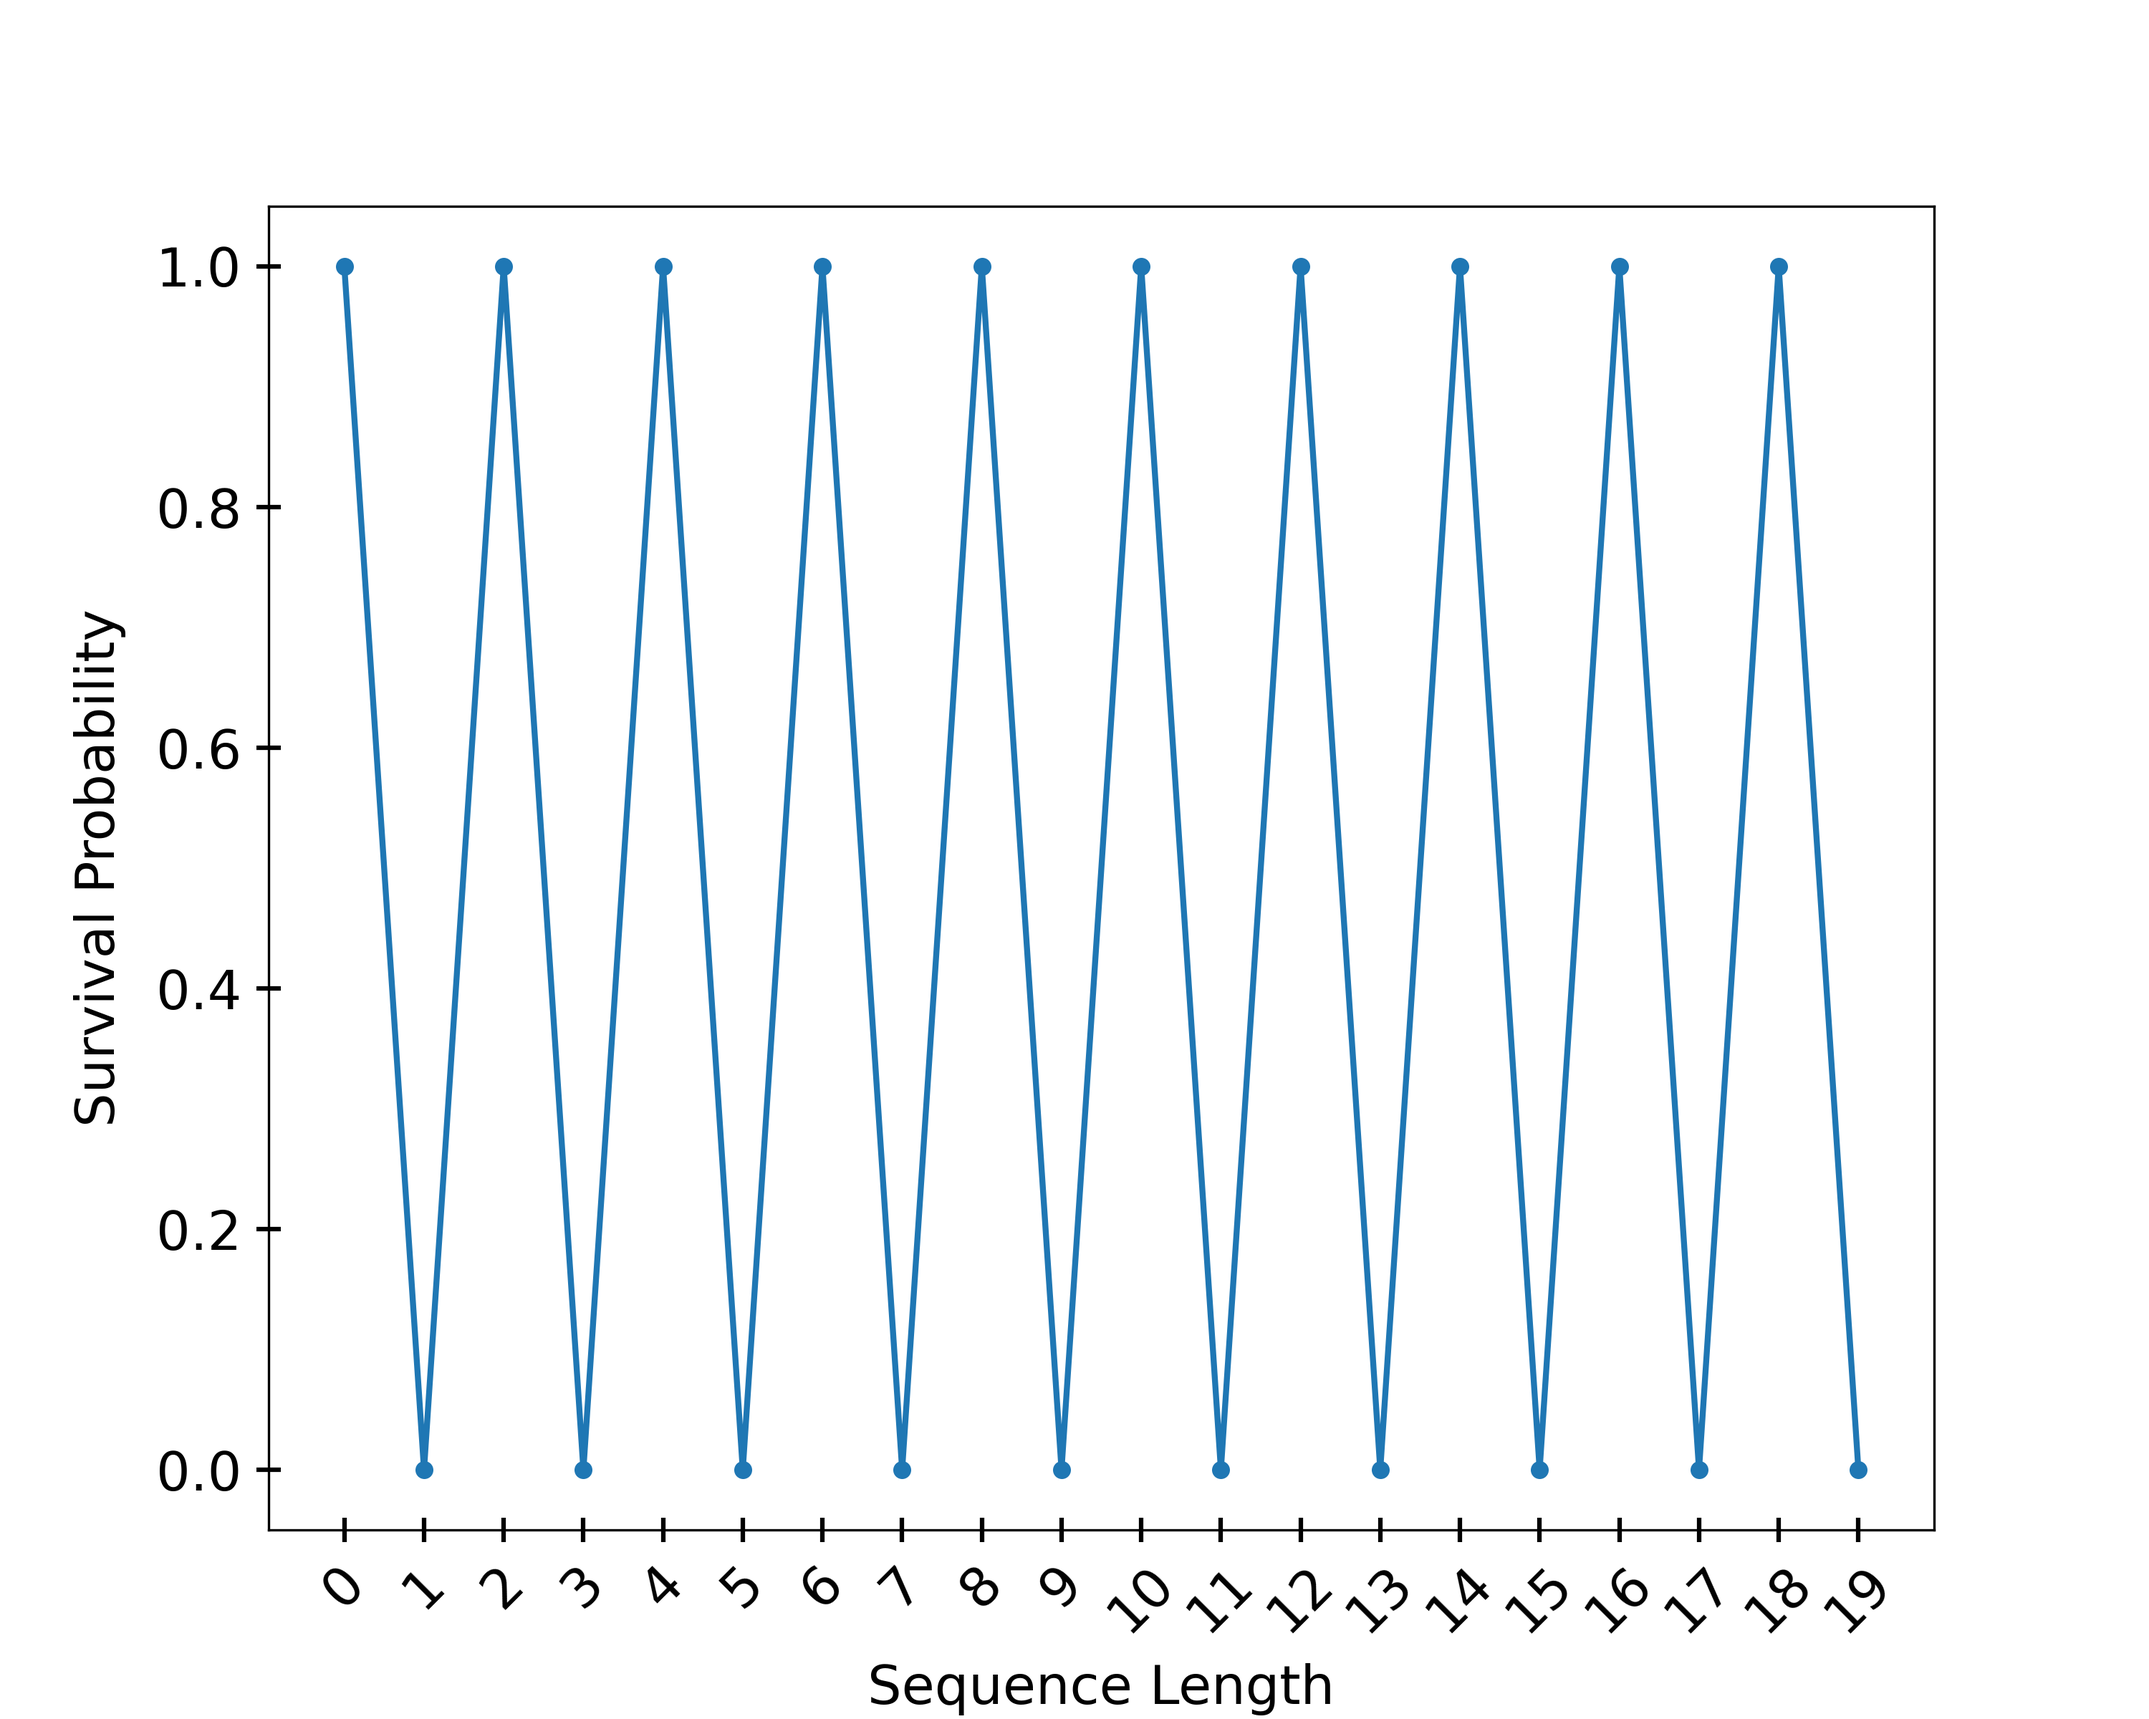
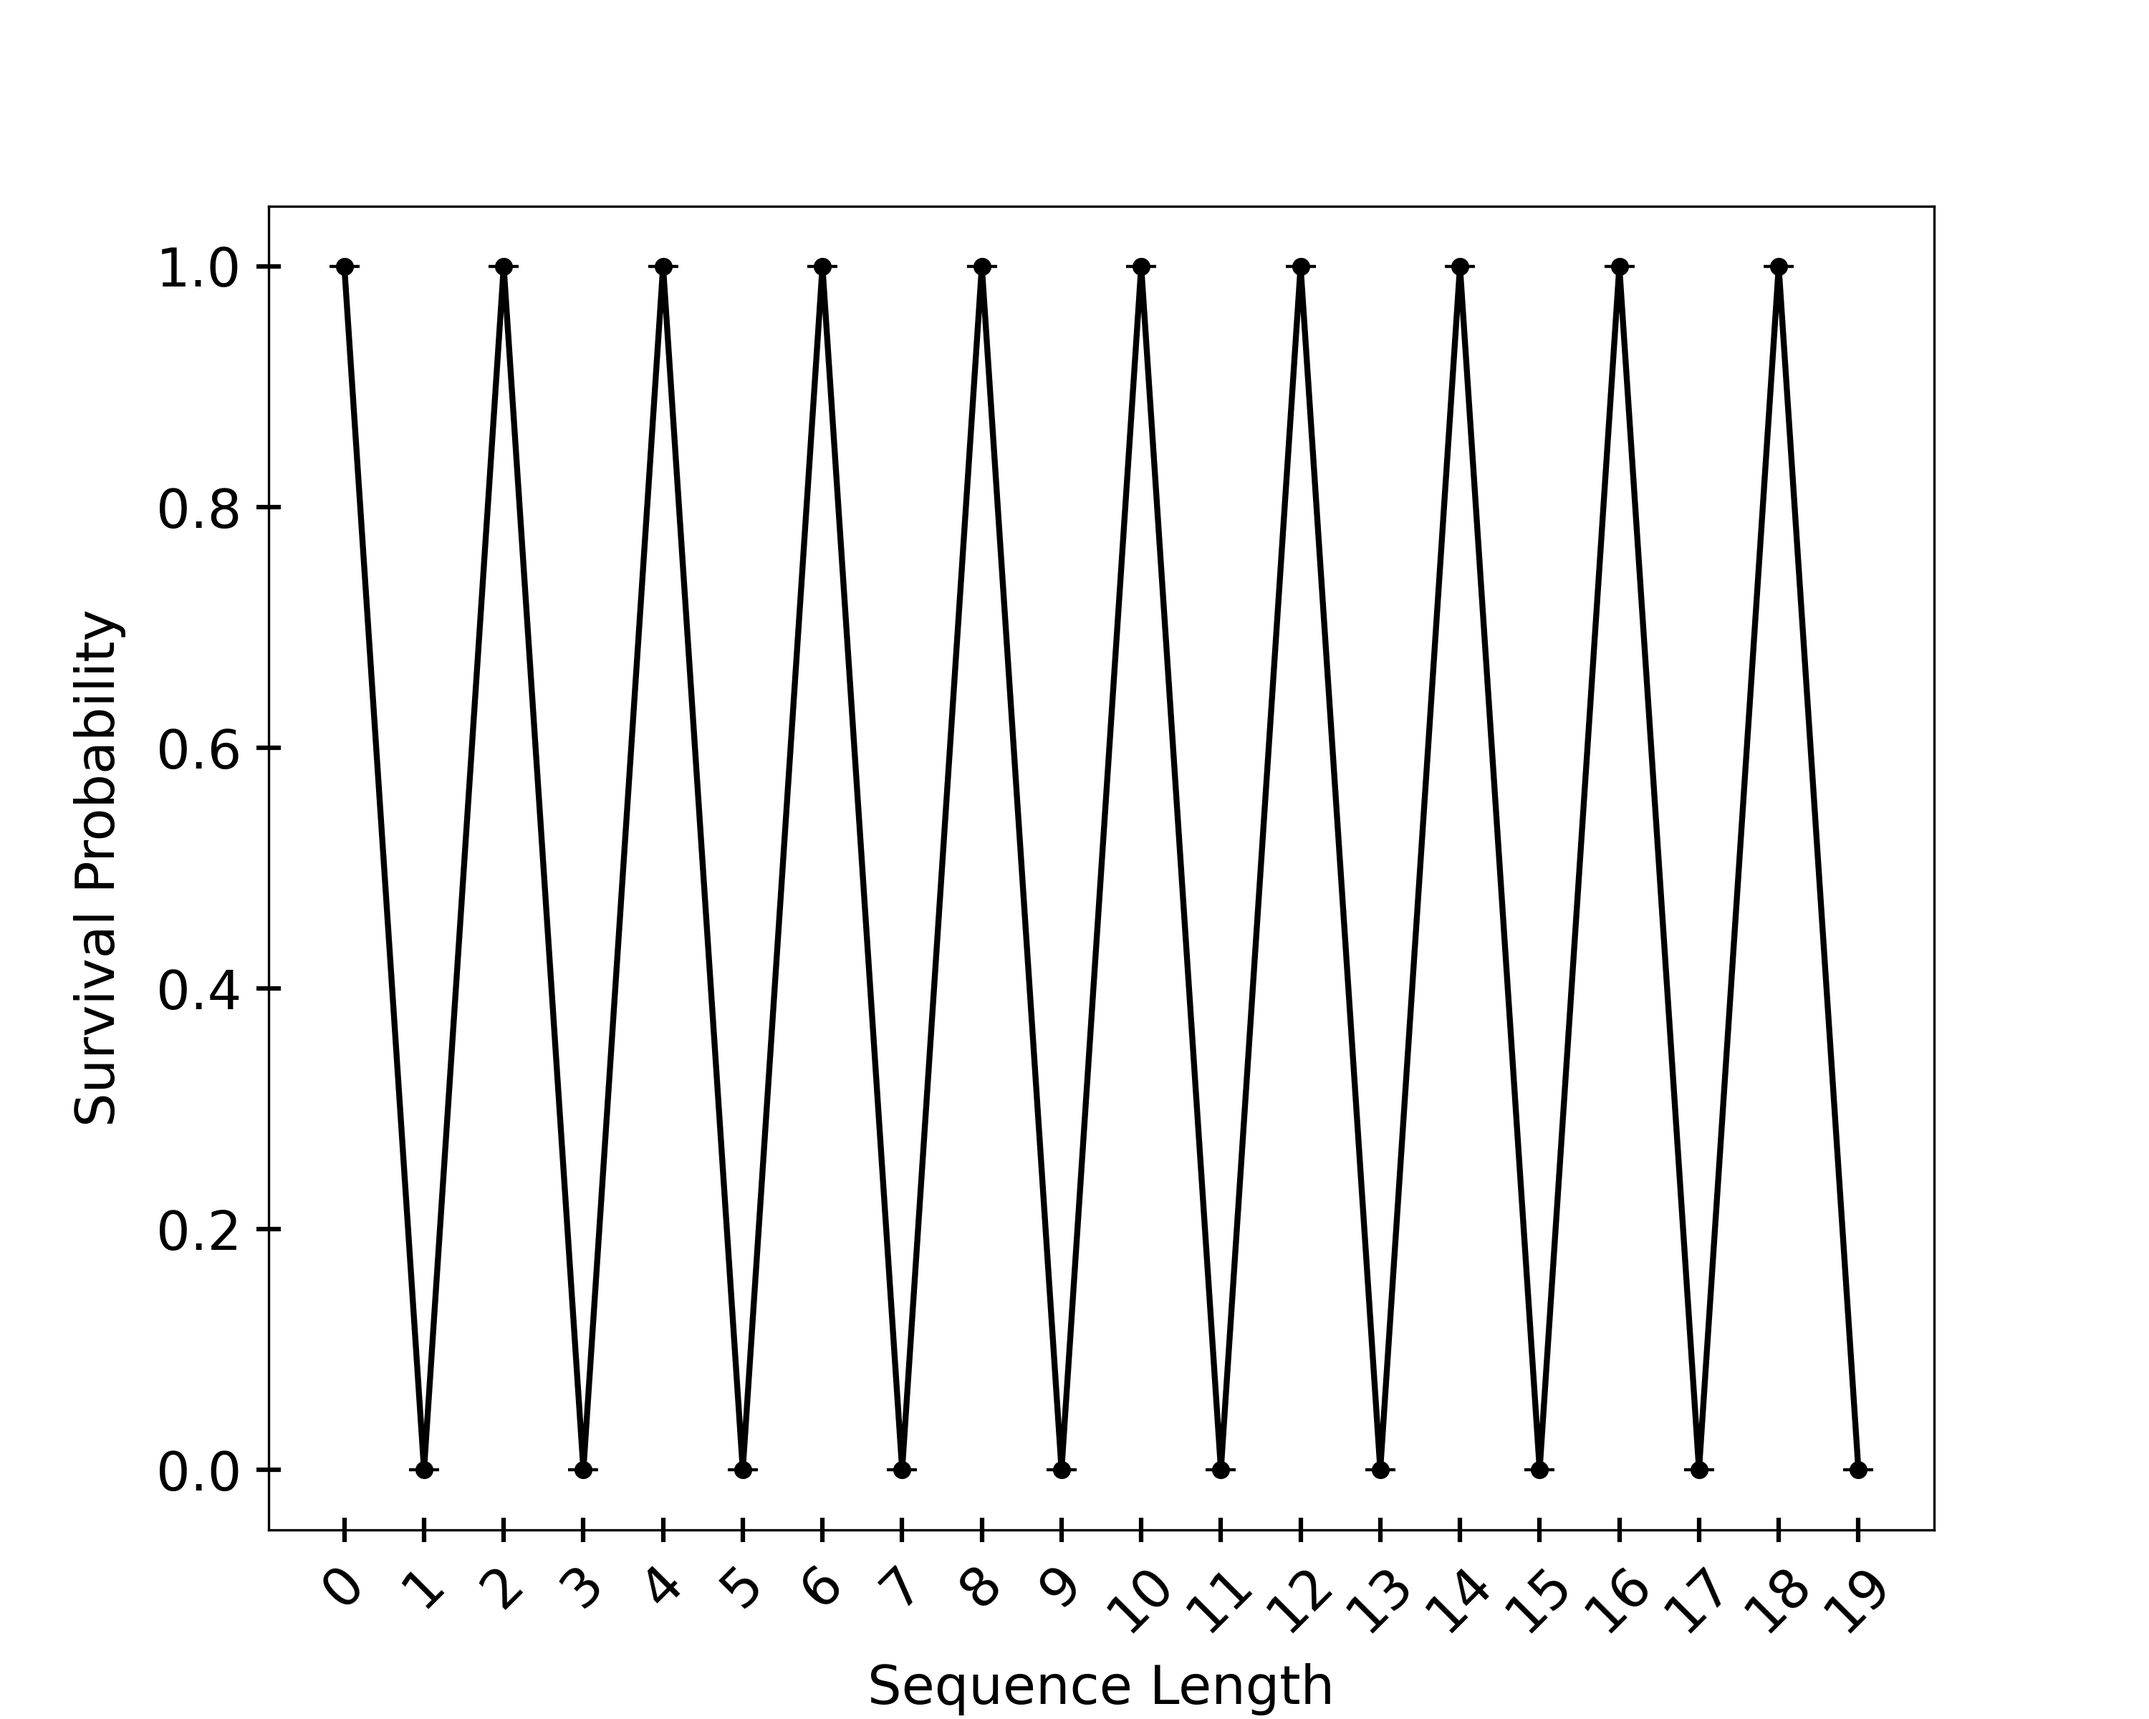
fix: change plot color to black

diff --git a/src/Plot_Return_Prob.py b/src/Plot_Return_Prob.py
@@ -1,9 +1,11 @@
 import os
-from tqdm import tqdm
+
 import matplotlib.pyplot as plt
 import numpy as np
+from tqdm import tqdm
 
 from Srb_With_Memory import mem_qubit_reset, srb_with_memory
+
 
 def plot_return_prob_varying_error_rate(num_qubits, mem_err_param_vals, mem_err_func, num_samples, reg_b_copies, correction_on_reg_b, filename, show_plot):
 # def plot_return_prob_varying_error_rate(
@@ -58,7 +60,7 @@ def plot_return_prob_varying_error_rate(num_qubits, mem_err_param_vals, mem_err_
 		results = np.load(data_file)
 	
 	fig = plt.figure(figsize=(10, 8))
-	plt.plot(mem_err_param_vals, results, marker="o", markersize=5, linewidth = 2)
+	plt.plot(mem_err_param_vals, results, marker="o", markersize=5, linewidth = 2, color="black")
 	plt.ylabel("Probability of returning to $|0\\rangle$ state", fontsize = 18, labelpad = 10)
 	plt.xlabel("Probability of Reset", fontsize = 18, labelpad = 10)
 	# plt.title("How Probable is Returning to the |0> state")
@@ -210,7 +212,7 @@ def plot_return_prob_varying_qubit_number(
 	results = np.load(data_file)
 
 	fig = plt.figure(figsize=(10, 8))
-	plt.plot(num_qubits_list, results, marker="o", markersize=10, linewidth=2) # Include error bars: p * (1 - p) / sqrt(N).
+	plt.plot(num_qubits_list, results, marker="o", markersize=10, linewidth=2, color="black") # Include error bars: p * (1 - p) / sqrt(N).
 	plt.ylabel("Probability of returning to $|0\\rangle$ state", fontsize = 18, labelpad = 10)
 	plt.xlabel("Number of Qubits", fontsize = 18, labelpad = 7)
 	# plt.title("How Probable is Returning to the |0> state")

diff --git a/src/Plot_Expectation_Values.py b/src/Plot_Expectation_Values.py
@@ -1,11 +1,11 @@
-import os
-from tqdm import tqdm
 import multiprocessing
+import os
 from functools import partial
 
 import matplotlib.pyplot as plt
 import numpy as np
 from joblib import Parallel, delayed
+from tqdm import tqdm
 
 from Srb_With_Memory import mem_qubit_reset, srb_with_memory
 
@@ -110,6 +110,7 @@ def plot_expectation_values(
 		marker="o",
 		markersize=5,
 		linewidth=2,
+		color="black",
 	)
 	plt.ylabel("Survival Probability", fontsize = 18, labelpad = 10)
 	plt.xlabel("Sequence Length", fontsize = 18, labelpad = 7)
